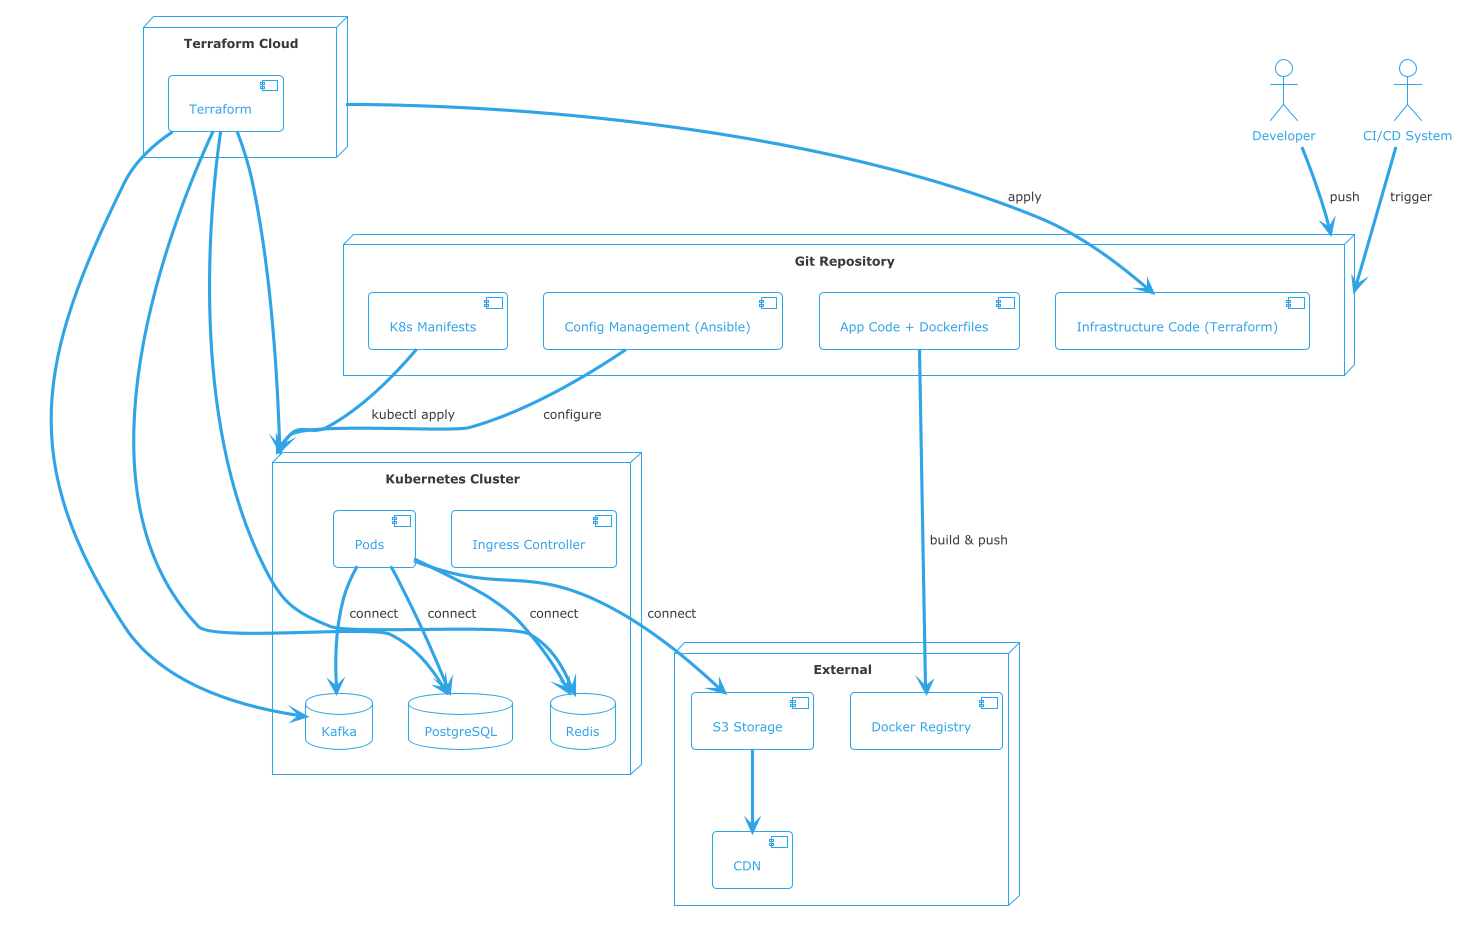
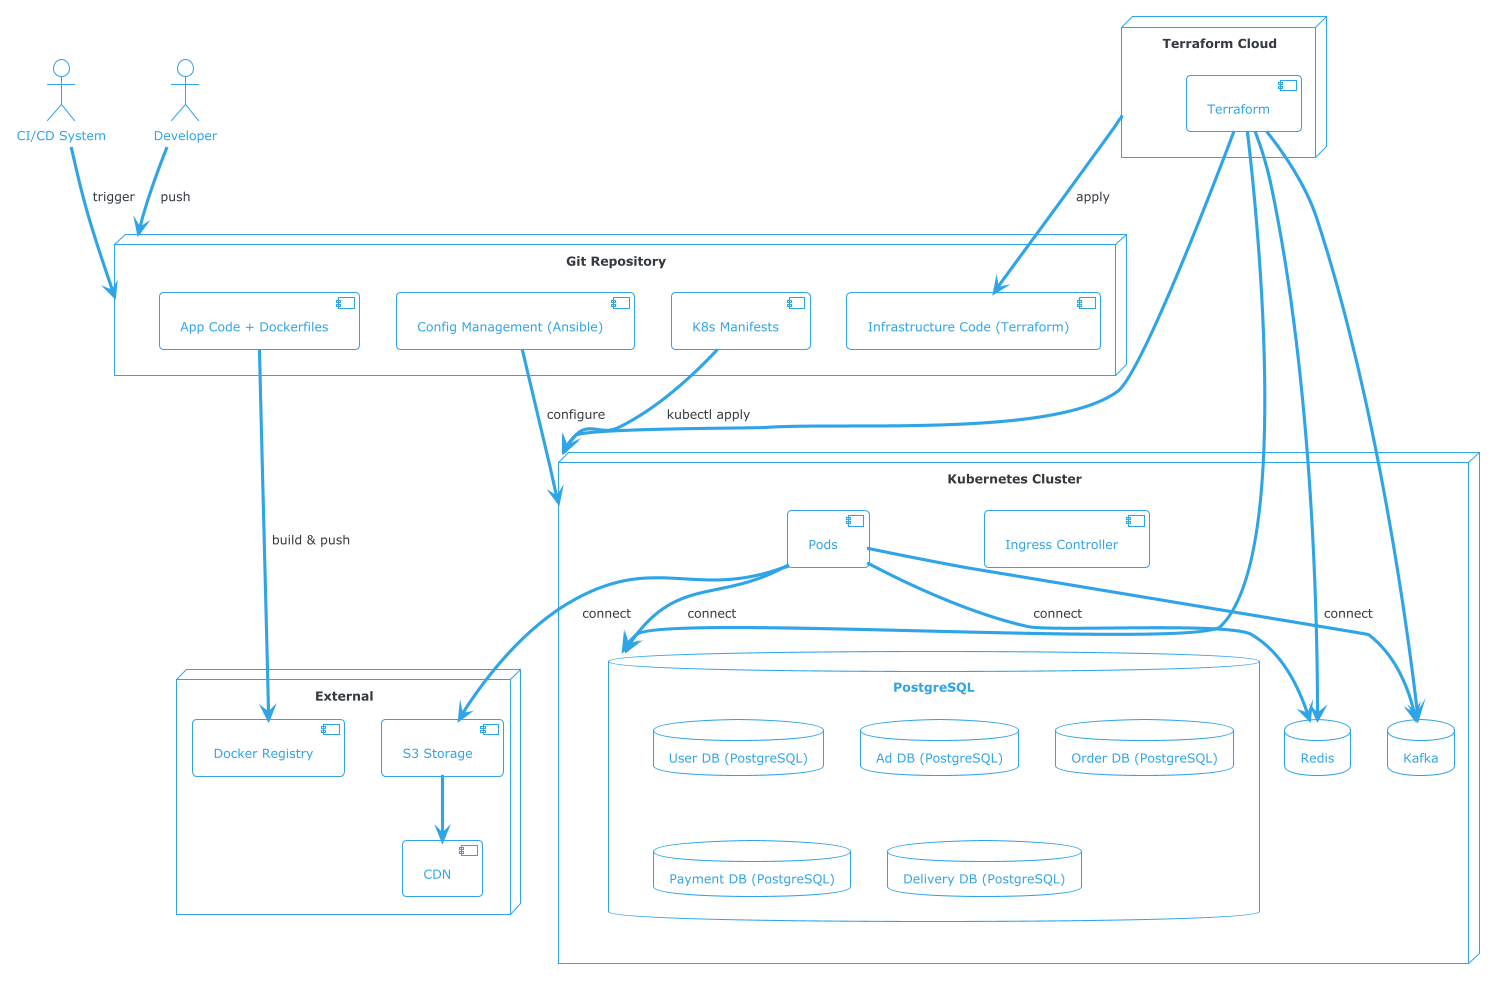
Update documentation and diagrams to reflect microservices data ownership, database scaling, and deployment architecture changes

diff --git a/Report.md b/Report.md
@@ -216,7 +216,7 @@
 - Payment Service – проводит платежи через внешний шлюз, обновляет статус в PostgreSQL, публикует события.
 - Delivery Service – рассчитывает стоимость доставки, взаимодействует с картографическим API, отслеживает статус.
 - Notification Service – слушает события Kafka и отправляет уведомления (email, push) пользователям.
-- Redis – кэш для сессий(?).
+- Redis – кэш для сессий.
 - Kafka – обеспечивает асинхронное взаимодействие между сервисами.
 
 ## 2.5 Потоки данных и высокоуровневое взаимодействие
@@ -311,6 +311,8 @@ _Польза: согласованность данных._
 
 ![models.png](Images/models.png)
 
+> Каждый микросервис владеет своей схемой данных. На диаграмме показана логическая модель предметной области, но физически таблицы распределены по разным базам данных.
+
 Требования консистентности
 
 - Заказы, платежи, доставка – строгая согласованность в пределах одного сервиса; между сервисами обеспечивается конечная
@@ -333,6 +335,8 @@ _Польза: согласованность данных._
 - Дневная нагрузка: 5'000'000 * 20 = 100 млн запросов/день
 - Пиковая нагрузка (в час пик, 10% от дневной): 10 млн запросов/час ≈ 2800 RPS
 - С учётом роста и неравномерности закладываем пик 10000 RPS
+
+> Нагрузка на PostgreSQL распределена между базами данных сервисов. Наиболее нагруженными являются Ad DB (запись объявлений) и Order DB (изменение статусов). Каждая база масштабируется независимо.
 
 #### Распределение по типам запросов:
 
@@ -595,16 +599,21 @@ paths:
 
 ## 2.13. Система хранения данных
 
+В системе используется полибаза данных: каждый микросервис владеет собственной базой данных PostgreSQL для обеспечения ACID и независимости. Это позволяет:
+- Масштабировать сервисы независимо.
+- Обеспечить отказоустойчивость: сбой одной БД не влияет на другие.
+
 ### 2.13.1. PostgreSQL
 
 - Класс: Реляционная СУБД.
 - Выбор: PostgreSQL.
-- Масштабирование: шардирование.
+- Масштабирование: шардирование для Ad DB (по регионам), партиционирование Order DB (по дате).
 - Высокая доступность: Кластер с мастером и двумя синхронными репликами. Patroni для автоматического failover. PgBouncer
   для пула соединений.
 - CAP: CP.
 - Ограничения: максимальный размер таблицы.
 - Бэкапы: Полные бэкапы каждые 6 часов, WAL архивация каждые 15 минут в S3. Хранение бэкапов 30 дней.
+- TIA: Для каждого сервиса разворачивается своя схема/база, миграции управляются независимо.
 
 ### 2.13.2. Elasticsearch
 
